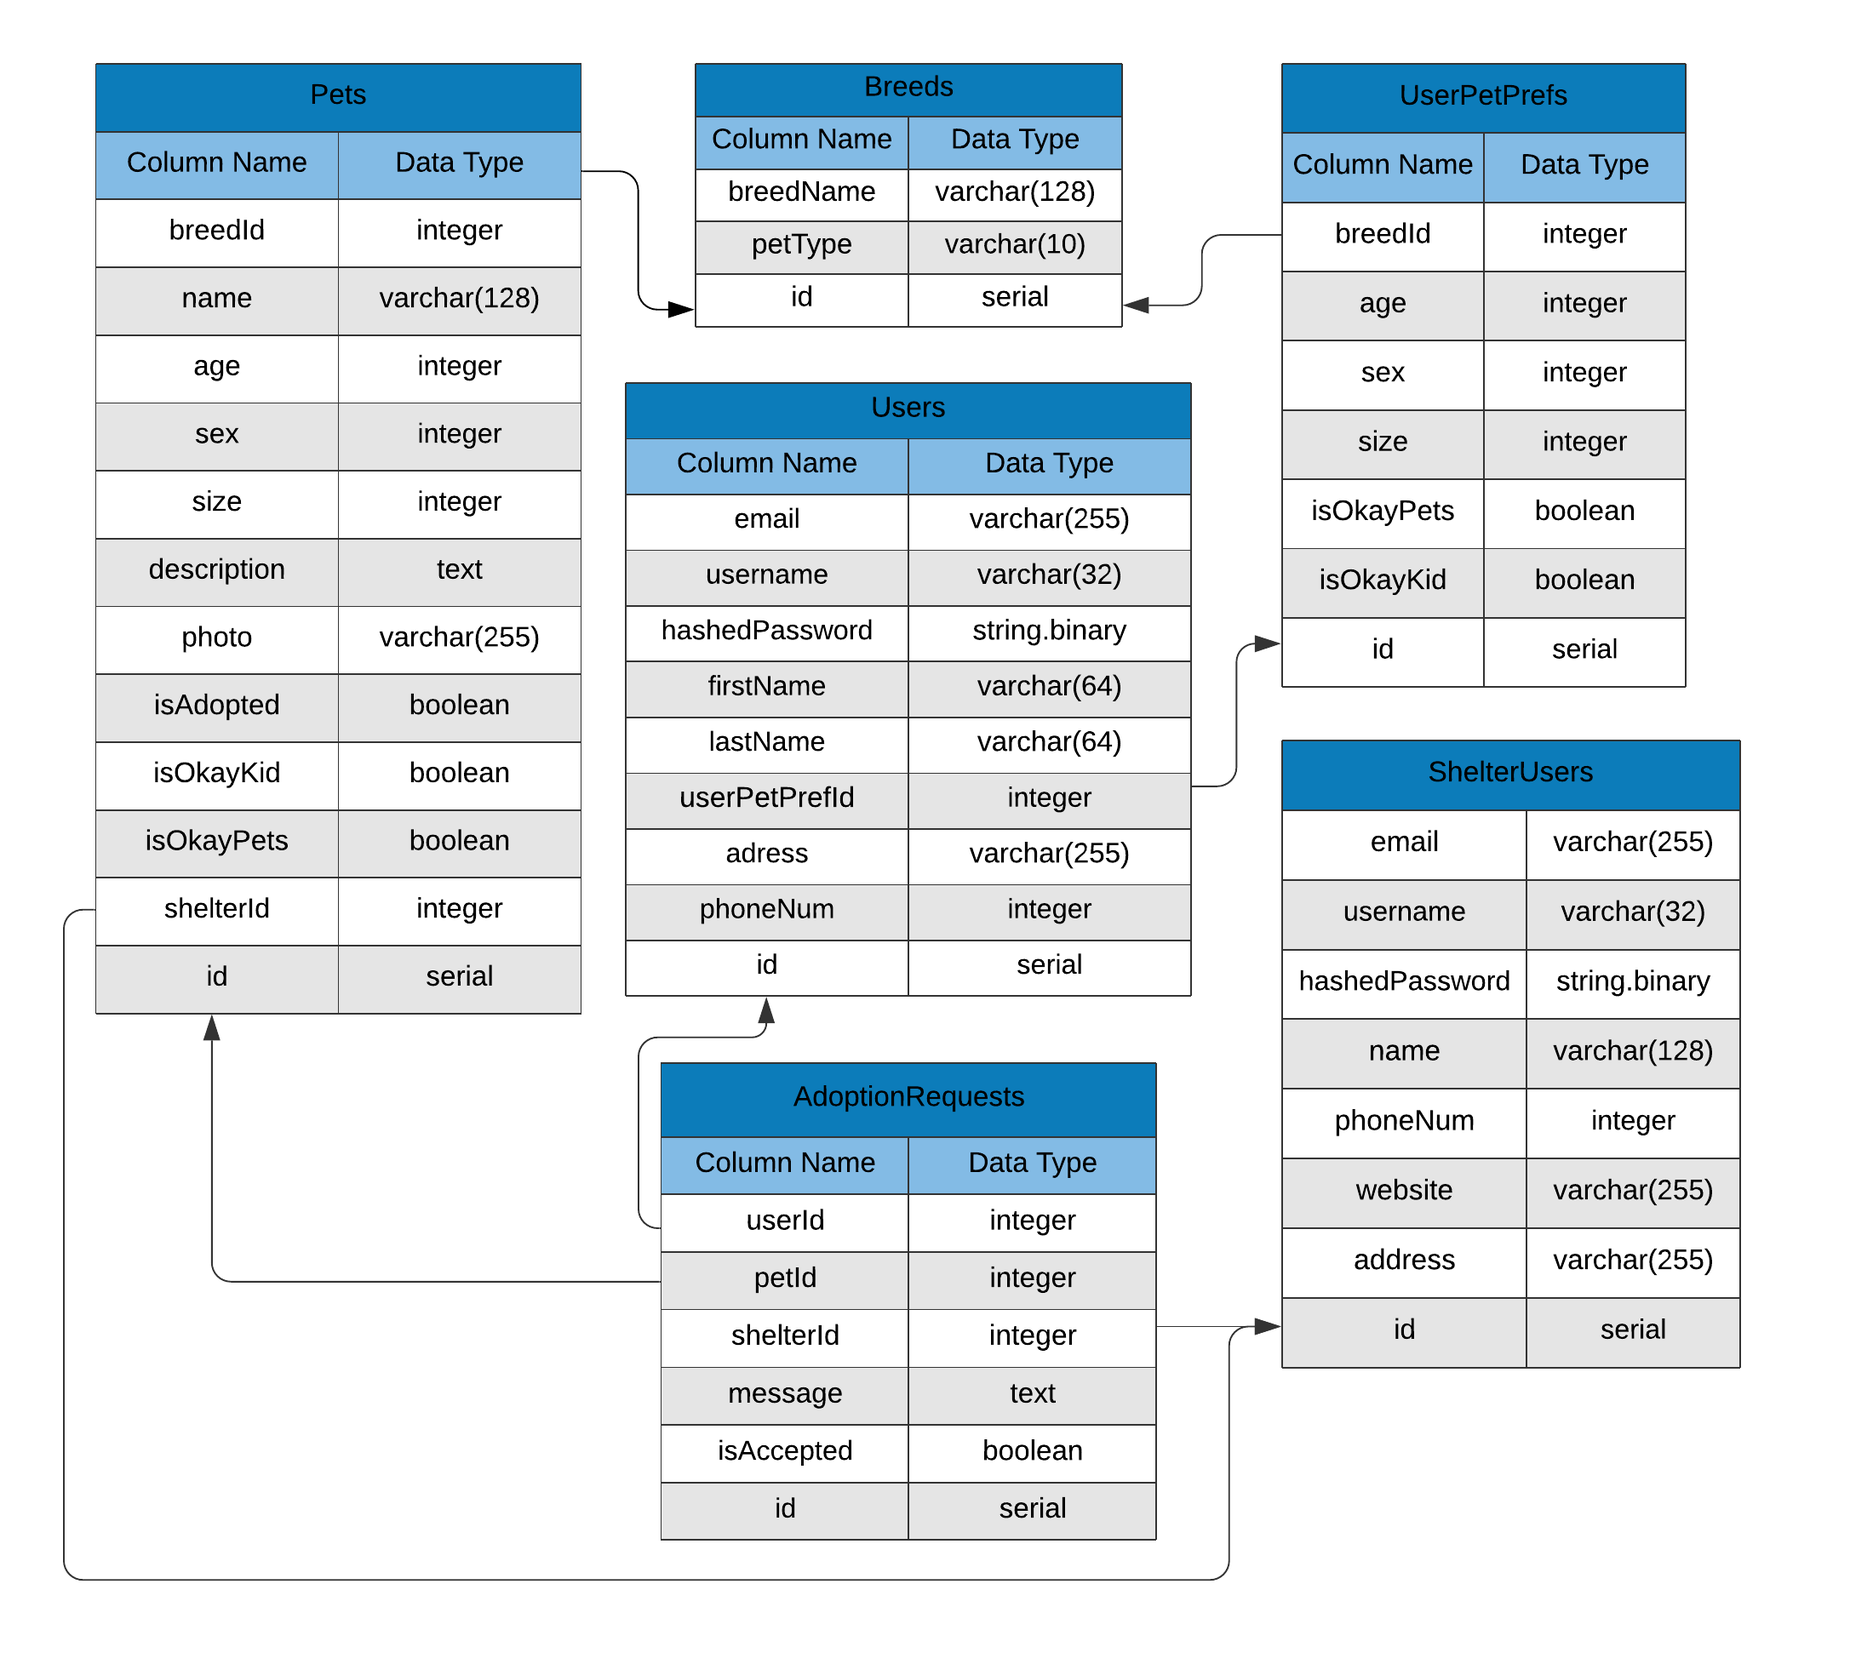
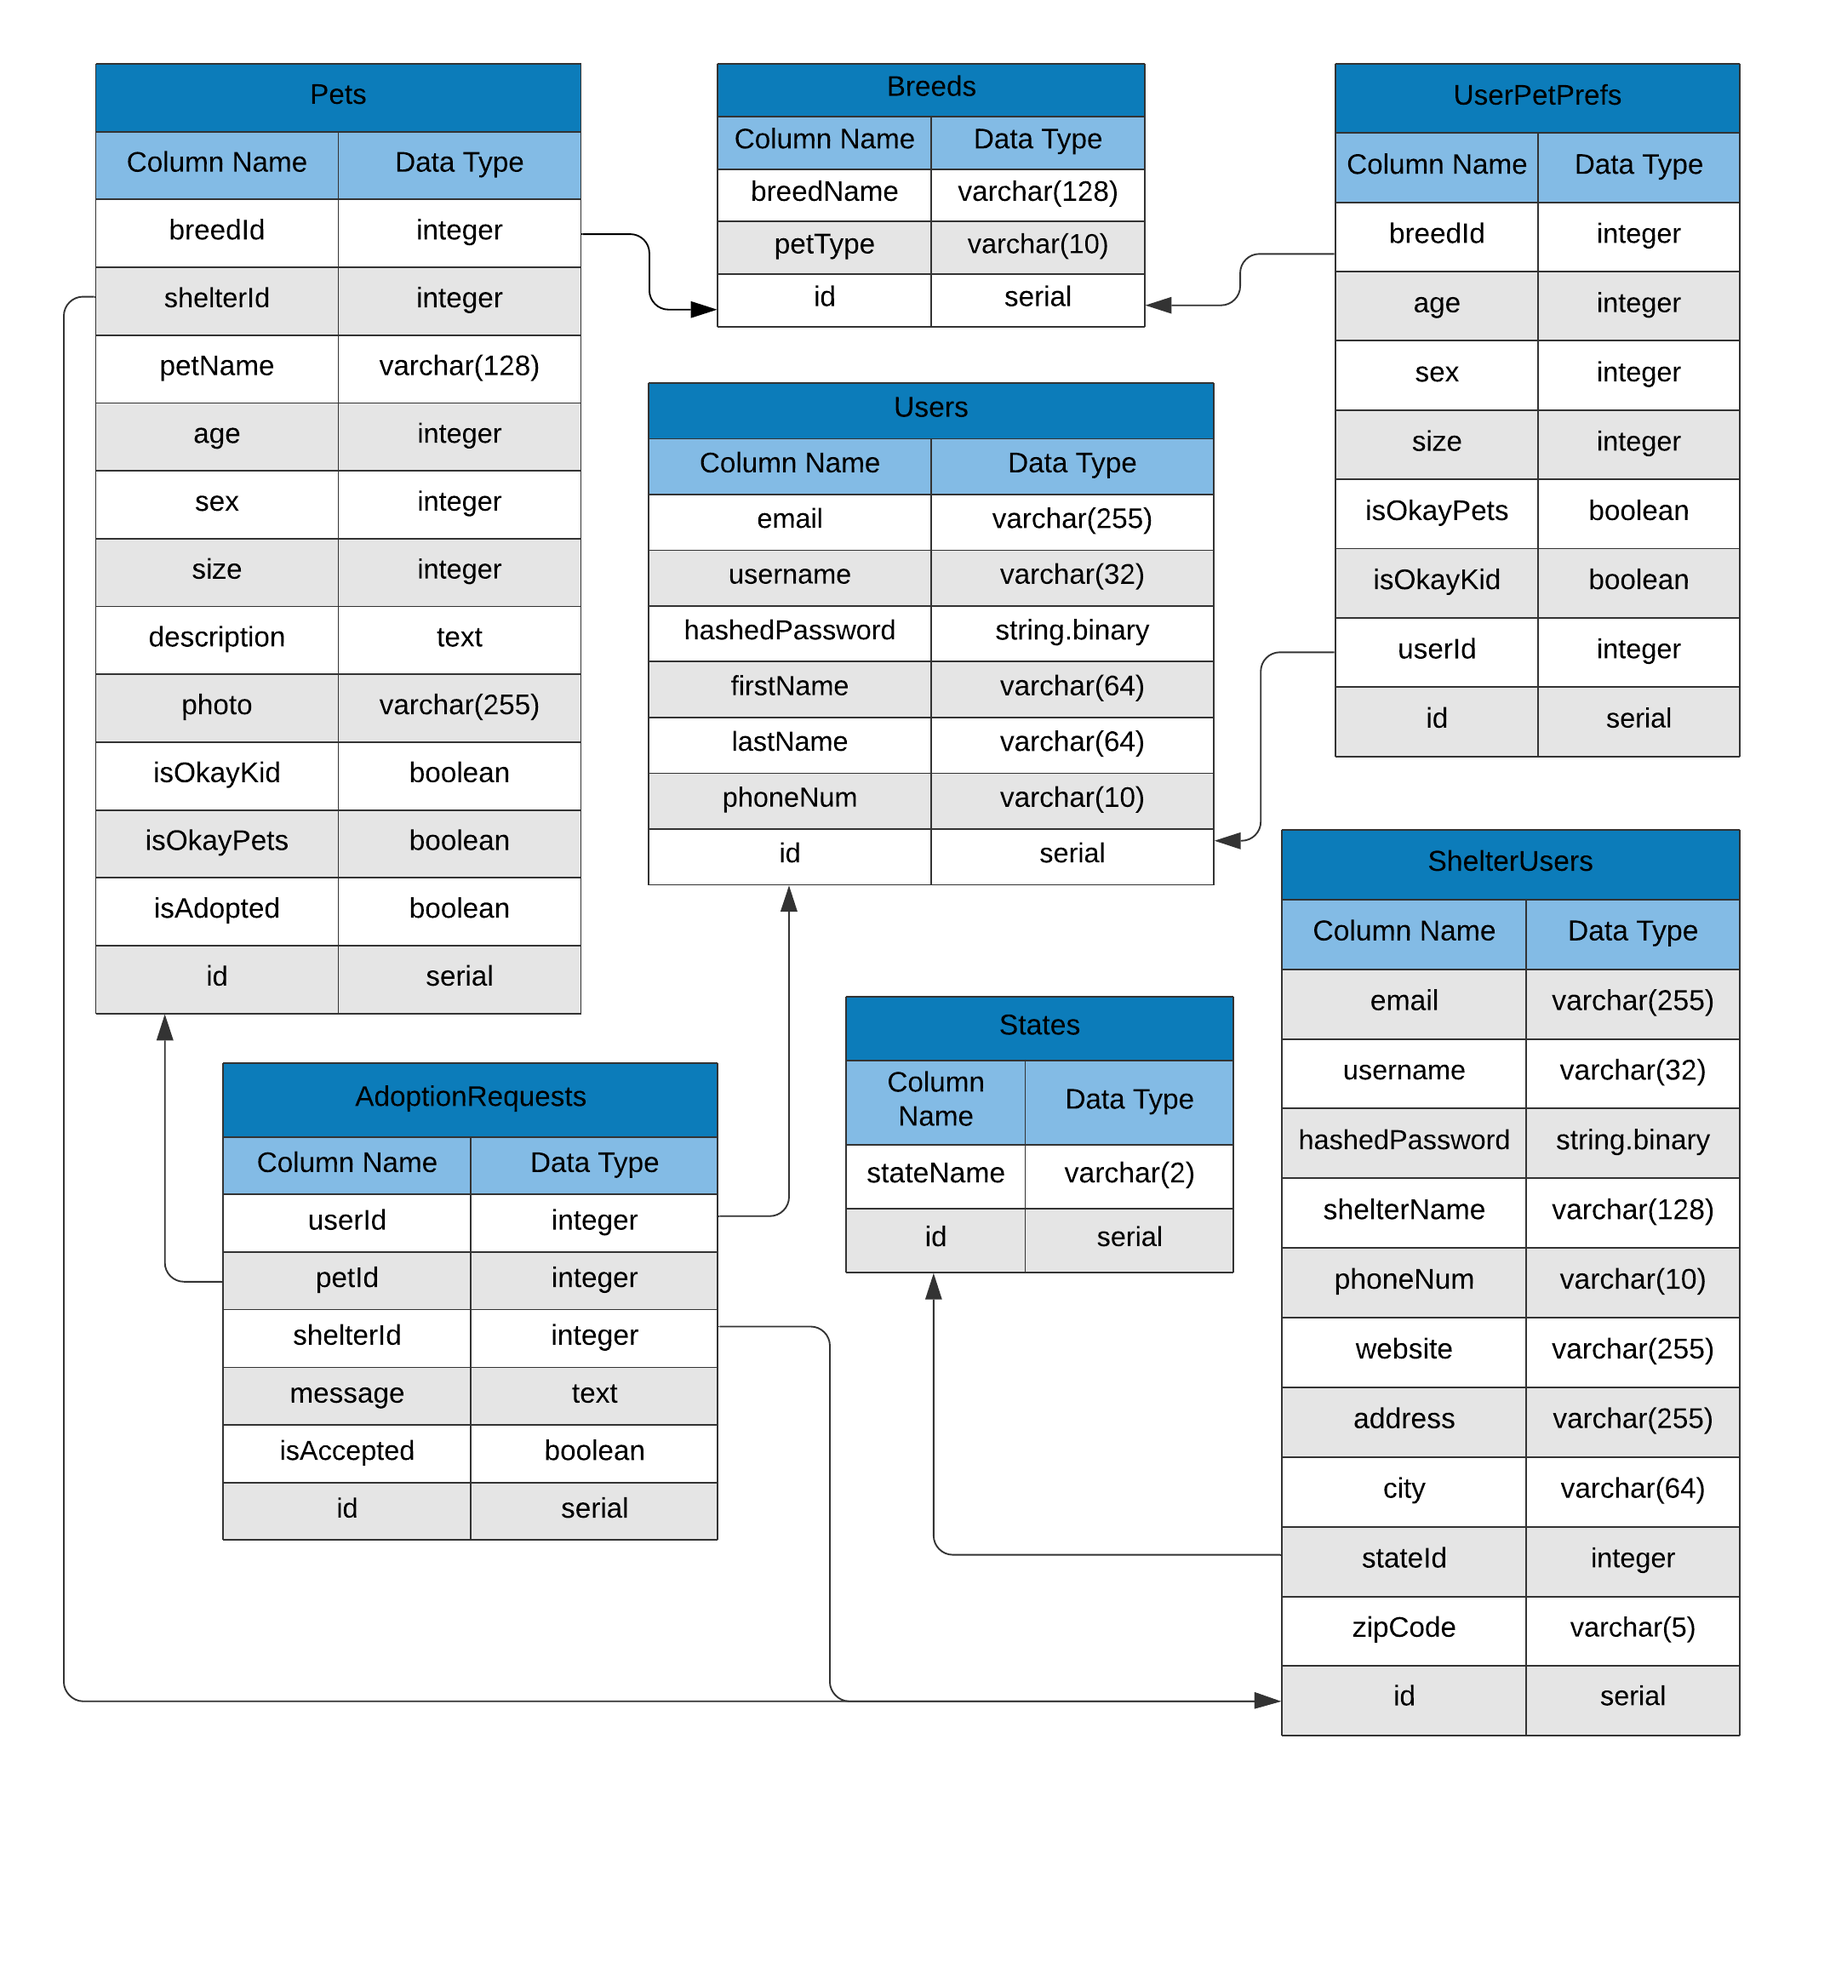
slight tweak to tables image and database readme

diff --git a/documentation/database.md b/documentation/database.md
@@ -5,7 +5,7 @@ Below is a representation of all of the tables and their relations:
 ![](/documentation/Images/PawsAndClawsTable.png)
 
 1. Users: all user information - for adopters
-   *  Users.userPetPrefId => particular UserPetPrefs.id
+   *  UserPetPrefs.userId => particular Users.id
    *  AdoptionRequests.userId => particular Users.id
 
 
@@ -17,6 +17,7 @@ Below is a representation of all of the tables and their relations:
 3. Shelters: details of a shelter and all available pets
    *  AdoptionRequest.shelterId => particular Shelter.id
    *  Pets.shelterId => particular Shelter.id
+   *  ShelterUsers.stateId => particular States.id
    
 3. AdoptionRequests: created by an adopter to alert a shelter they are interested in a particular pet
    *  AdoptionRequests.petId => particular Pets.id
@@ -24,7 +25,7 @@ Below is a representation of all of the tables and their relations:
    *  AdoptionRequests.ShelterId => particular Shelter.id
 
 4. UserPetPrefs: 'virtual' pet created by the adopter to match qualities with available pets
-   *  Users.userPetPrefId => particular UserPetPrefs.id
+   *  UserPetPrefs.userId => particular Users.id
    *  UserPetPrefs.breedId => particular Breeds.id
 
 5. Breeds: preseeded list of all available breeds with their associated petType
